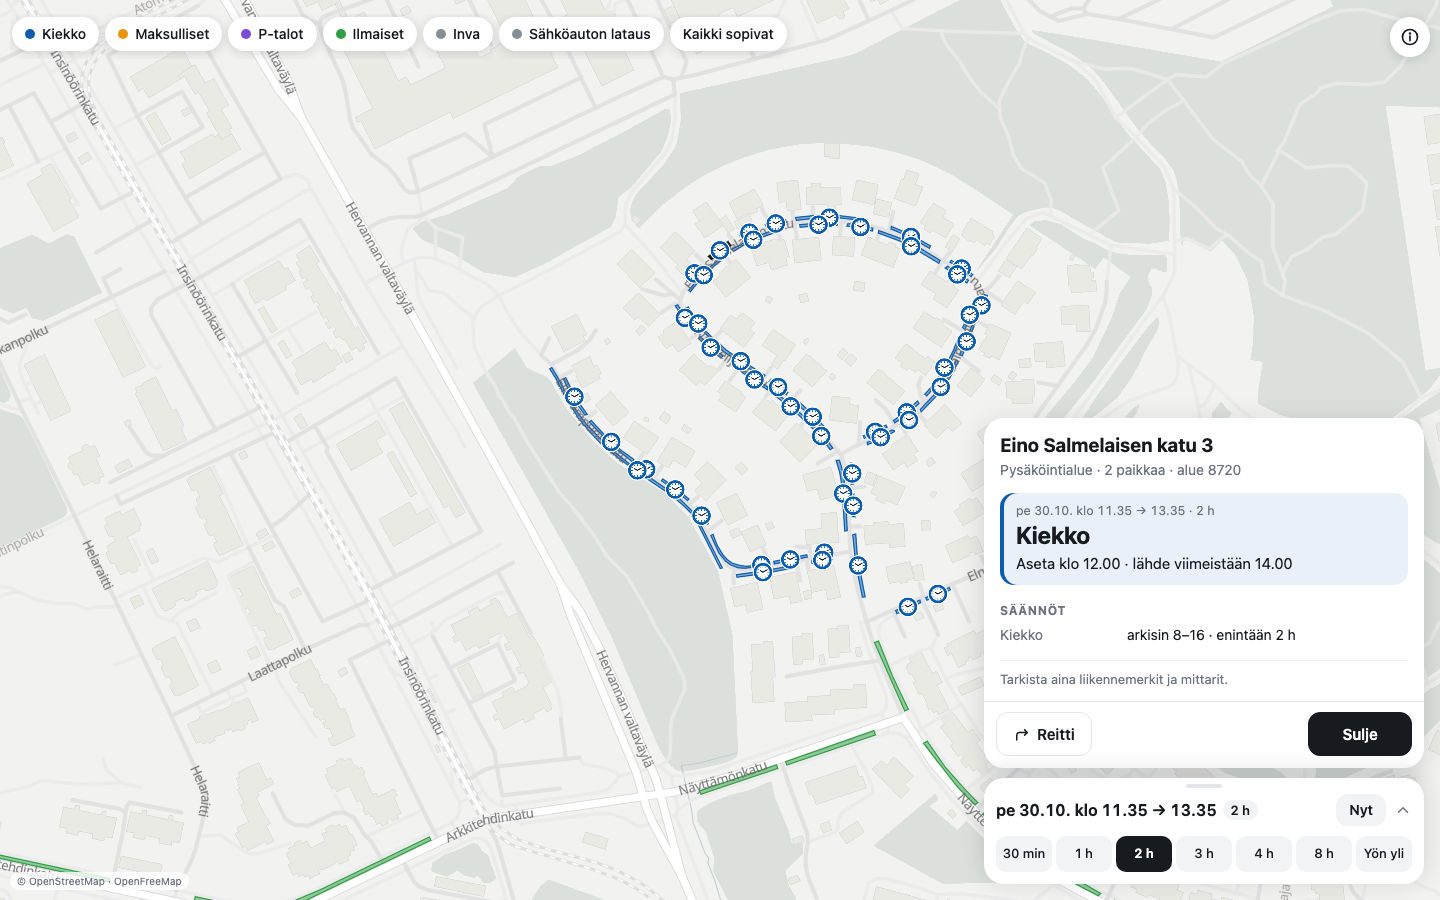
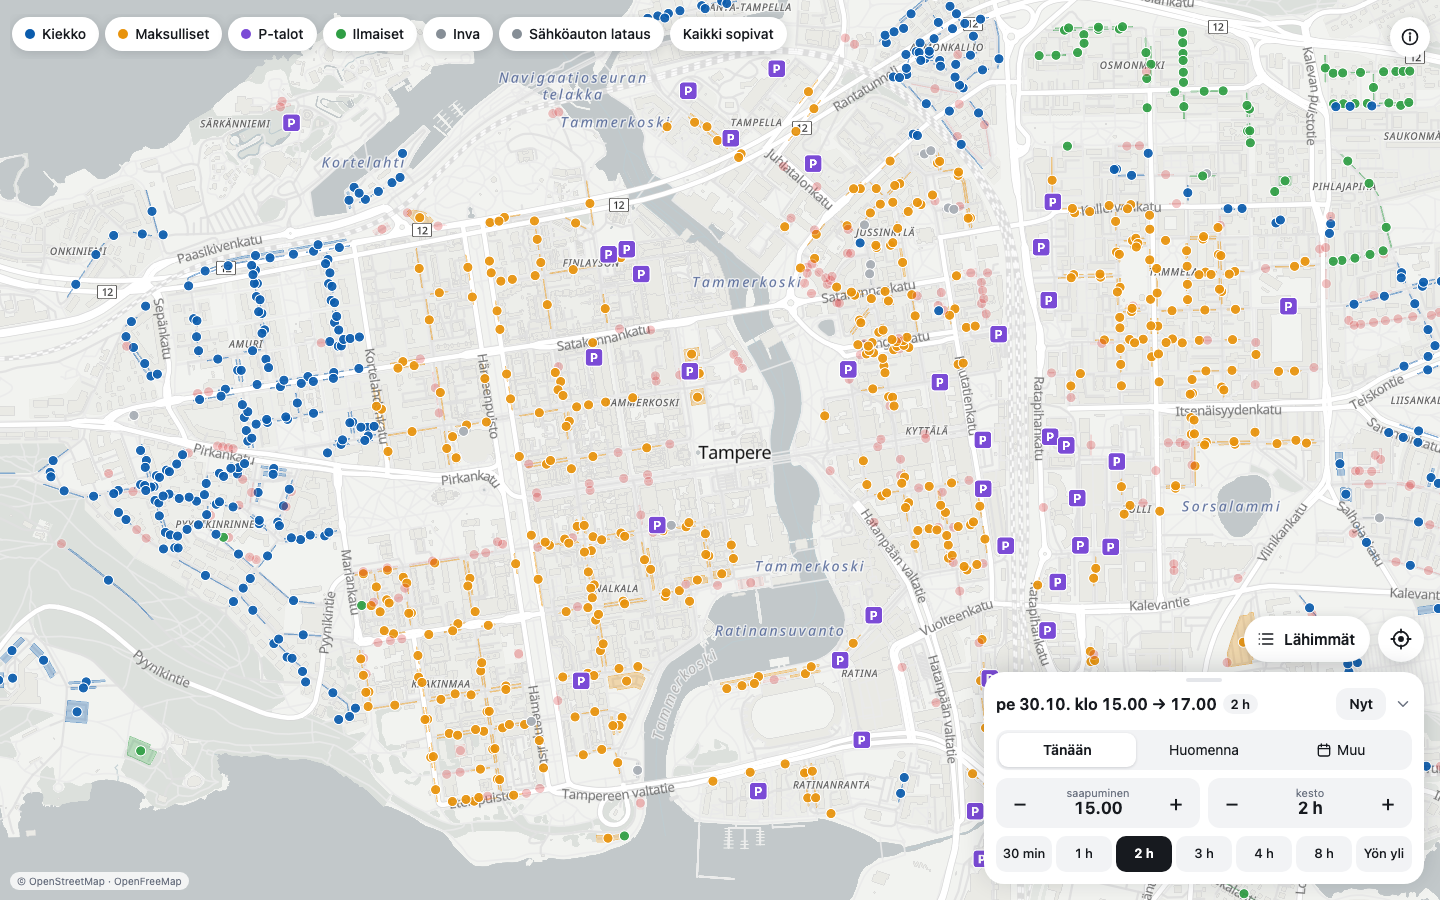
Colour families: each app's deep colour inside the datasheet
- Project title blocks become covers in the app's family colour (from the
  apps' own accents, with glows and the Parkki map / Spotify album as
  backdrops), with the "why I built it" quote inside.
- Screenshots, the clip band and the block diagram's core sit on the same
  deep fields; the selection table gets a colour chip per row. Paper and
  ink everywhere else (nav, CV, PDF, tables).
- Layout: the entry text column keeps at least 19rem at in-between widths
  and with browser zoom; the title and subtitle wrap as one block.
- Tunnit is a full entry (two phones); Parkki's desktop screenshot is the
  city centre, also used behind its cover.

diff --git a/src/styles/global.css b/src/styles/global.css
@@ -75,6 +75,51 @@
   }
 }
 
+/* ---- The family colour: each app's deep field with a glow, like a product family's cover colour. It fills a
+   project's cover, its figure fields, the clip band and the core blocks of its diagram; everything else stays
+   paper and ink. Derived from --accent; two apps get their own tuning (Sali is black with teal, Tunnit has its
+   two job colours). Text on a field is light. ---- */
+[data-project] {
+  --field: oklch(from var(--accent) 0.24 calc(c * 0.6) h);
+  --glow: oklch(from var(--accent) 0.55 c h / 0.6);
+  --glow-2: transparent;
+  --field-bg:
+    radial-gradient(70% 80% at 82% 15%, var(--glow), transparent 65%),
+    radial-gradient(60% 70% at 8% 95%, var(--glow-2), transparent 65%),
+    var(--field);
+  --field-ink: #fff;
+  --field-ink-2: rgb(255 255 255 / 0.74);
+  --field-line: rgb(255 255 255 / 0.32);
+  --field-accent: oklch(from var(--accent) 0.82 calc(c * 0.75) h);
+}
+
+[data-project="sali"] {
+  --field: oklch(from var(--accent) 0.14 calc(c * 0.25) h);
+  --glow: oklch(from var(--accent) 0.5 c h / 0.7);
+}
+
+[data-project="tunnit"] {
+  --field: oklch(0.21 0.02 50);
+  --glow: oklch(from var(--accent) 0.55 c h / 0.65);
+  --glow-2: oklch(0.5 0.17 262 / 0.7);
+}
+
+/* Dark paper: the fields a touch brighter, so they still read as colour. */
+@media (prefers-color-scheme: dark) {
+  [data-project] {
+    --field: oklch(from var(--accent) 0.29 calc(c * 0.65) h);
+    --glow: oklch(from var(--accent) 0.6 c h / 0.6);
+  }
+
+  [data-project="sali"] {
+    --field: oklch(from var(--accent) 0.18 calc(c * 0.3) h);
+  }
+
+  [data-project="tunnit"] {
+    --field: oklch(0.25 0.025 50);
+  }
+}
+
 [data-project] .sec > h2::before,
 [data-project] .prose h2::before,
 [data-project] .sub > h3::before,
@@ -408,7 +453,7 @@ tbody th {
 }
 
 .fig .plate {
-  background: var(--accent-wash, var(--fill));
+  background: var(--field-bg, var(--fill));
   padding: 5%;
 }
 
@@ -424,14 +469,14 @@ tbody th {
 }
 
 .fig img {
-  border: 1px solid var(--accent-line, var(--line));
+  border: 1px solid var(--field-line, var(--line));
 }
 
 .fig video {
   display: block;
   width: 100%;
   height: auto;
-  border: 1px solid var(--accent-line, var(--line));
+  border: 1px solid var(--field-line, var(--line));
   background: var(--ink);
 }
 

diff --git a/src/content/projects/parkki/index.md b/src/content/projects/parkki/index.md
@@ -42,7 +42,7 @@ links:
 code: private
 images:
   - src: ./01-desktop.png
-    alt: "Parkki on a desktop: disc parking spots marked with clock icons along a street, and the details of one place."
+    alt: "Parkki on a desktop: the centre of Tampere with every parking area coloured for a two-hour stay, disc parking in blue, paid in orange, garages in purple and free in green, and the time picker."
     frame: browser
   - src: ./02-map.png
     alt: "The map on a phone around the city centre, with paid, disc and garage parking and the time picker at the bottom."

diff --git a/src/content/projects/tunnit/index.md b/src/content/projects/tunnit/index.md
@@ -3,7 +3,7 @@ title: Tunnit
 subtitle: Hours and pay for part-time work
 tagline: Log your work hours and see what each payday really brings, before the payslip arrives.
 tags: [Web app, PWA, Offline]
-card: small
+card: featured
 order: 4
 stack: [TypeScript, React, TanStack Query, Hono, SQLite, vitest, Playwright, PWAs]
 accent: "#c8651b"
